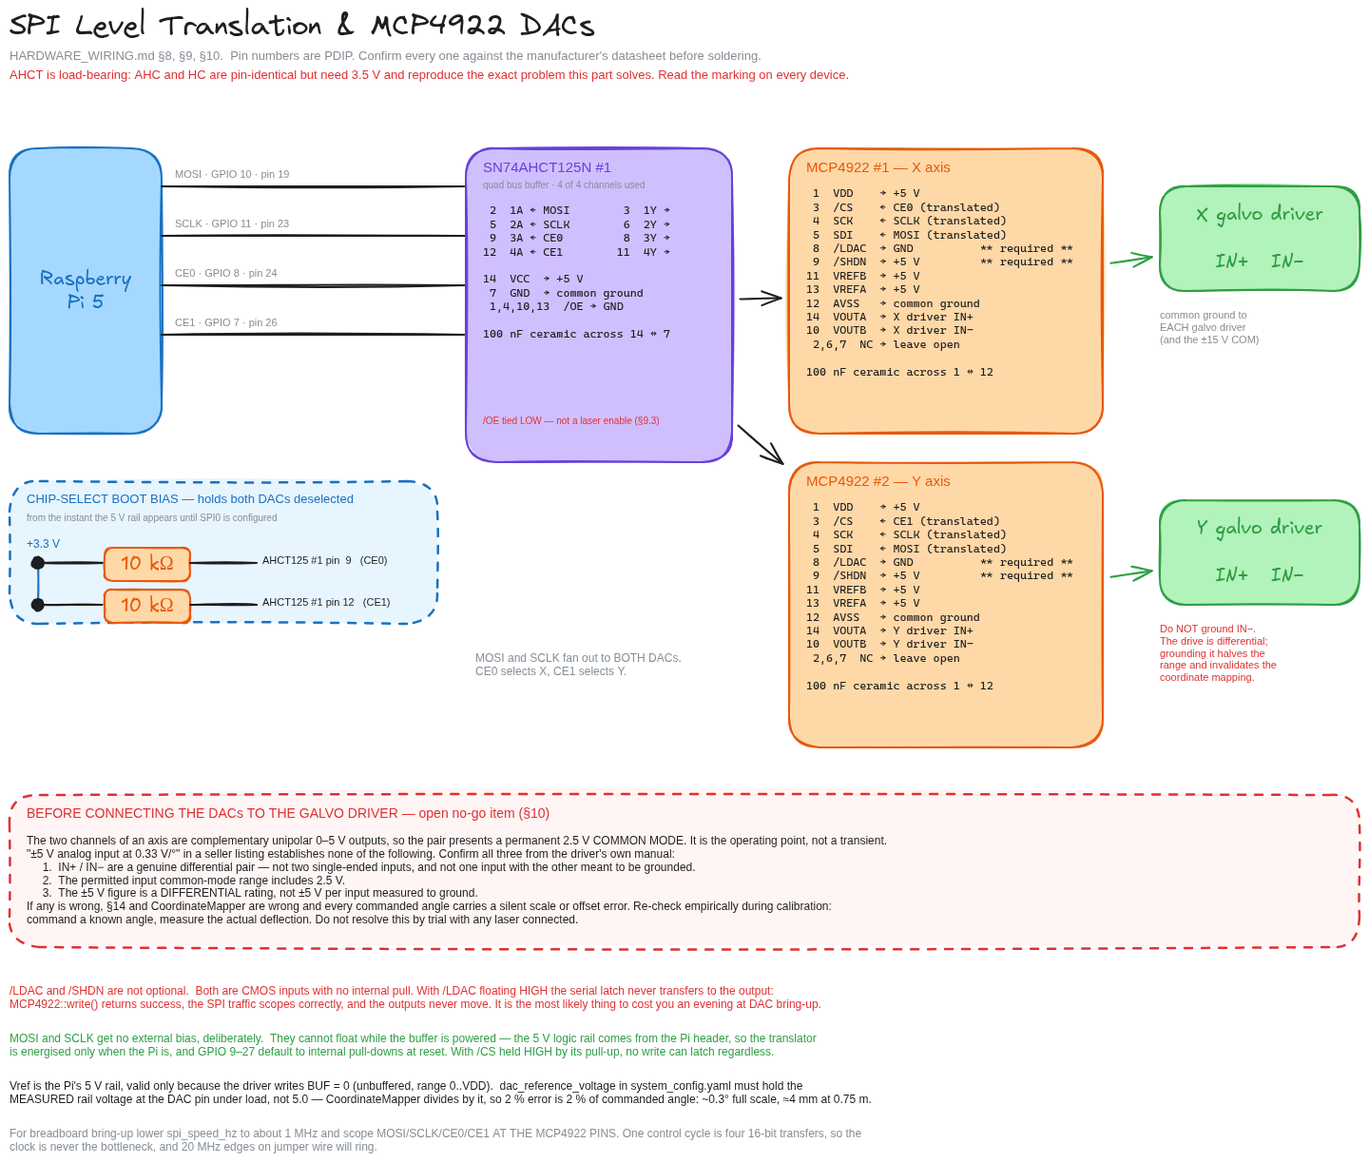
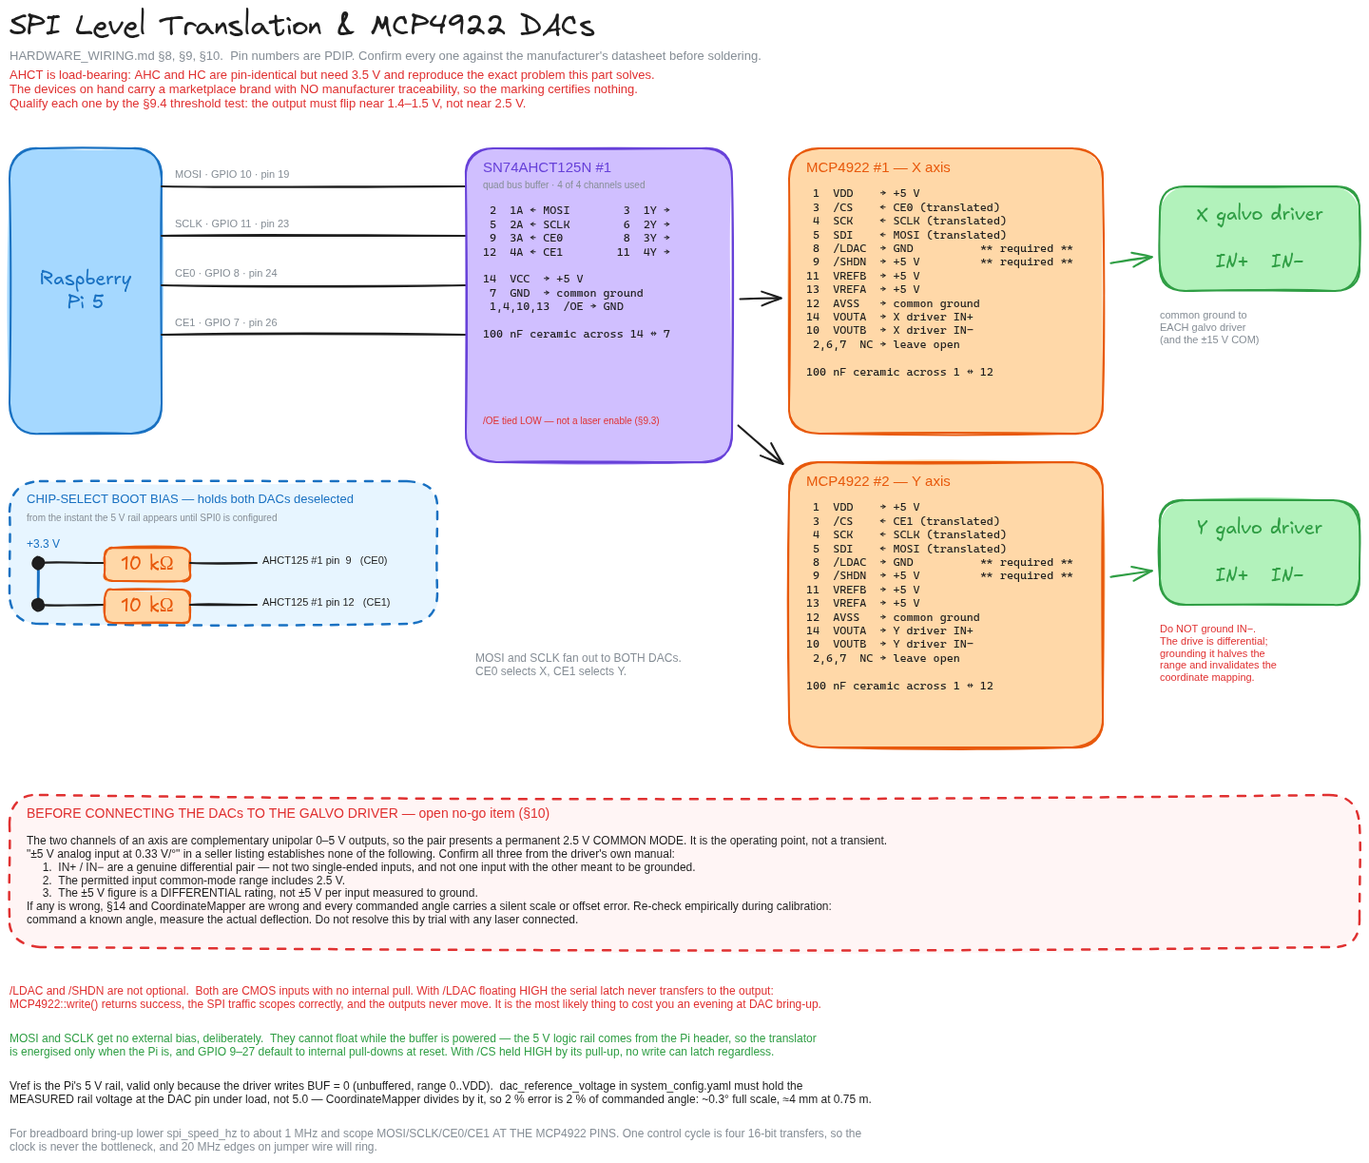
docs: AHCT125 marking is untraceable — add the input-threshold test
The two SN74AHCT125N packages were bought under the "Editbar" marketplace
brand from Zhengzhou Yuanzhang Trading Co., seller SKU ED1175. That is a
trading company, not a fab, the package logo is not TI's, and no die
manufacturer is identified anywhere.

Consequence: the check this project relied on no longer works. "Read the
marking on every fitted device" appears in AGENTS.md, README.md, the wiring
BOM, 9.1, 17 stage 0 and drawing 4 -- but SN...N is a TI nomenclature and TI
did not put those letters on these packages, so the marking is a claim by a
party that did not make the die. An AHC/HC die in an AHCT-marked package is
the cheap substitution, it is pin-identical, and marking inspection passes it
by definition.

Added: input-threshold test (9.4)
  The decisive measurement, and the one the marking cannot substitute for.
  V_CC = 5 V, /OE LOW, drive an input from a 10 kOhm pot across the rail and
  raise it while watching that channel's output:

    flips at ~1.4-1.5 V  -> TTL thresholds, a genuine AHCT
    flips at ~2.5 V      -> CMOS thresholds, an AHC/HC die. NO-GO

  Both packages, since they need not be from one lot. Explicitly recorded
  that "it switched when I applied 3.3 V" is NOT a pass: an HC part typically
  switches near 2.5 V and would sail through that test while failing its own
  guaranteed 3.5 V V_IH. That is the exact failure the test exists to catch.

Added: why a bench test is not the whole answer (9.1)
[…]

diff --git a/docs/HARDWARE_INVENTORY.md b/docs/HARDWARE_INVENTORY.md
@@ -36,7 +36,7 @@ the reported **2.5 W** module only.
 | Item on hand | Qty | Reported specification |
 |--------------|-----|------------------------|
 | DAC | 2 | MCP4922, DIP-14, dual-channel 12-bit DAC |
-| Level translation | 2 | SN74AHCT125N, PDIP-14 quad bus buffer with 3-state outputs — package #1 for the four SPI signals, package #2 for GPIO 18 alone. **Marking not yet checked on either device** |
+| Level translation | 2 | Marked `SN74AHCT125N`, PDIP-14 quad bus buffer with 3-state outputs — package #1 for the four SPI signals, package #2 for GPIO 18 alone. Sold under the **Editbar** marketplace brand (Zhengzhou Yuanzhang Trading Co., seller SKU **ED1175**); the package logo is not TI's and **no die manufacturer is identified**. `SN…N` is a TI nomenclature, so the marking is a claim by a party that did not make the part |
 | Monostable | 1 | **Hitachi HD74HC123P**, DIP-16, date code 9K06 — identified from the package marking 2026-08-03. Marked without the `A` of the `HD74HC123A` datasheet revision obtained |
 | AND gate | 1 | SN74HC08N, DIP-14, quad 2-input AND gate |
 | Resistors | count not recorded | Carbon film, 1/2 W: 220 kΩ, 10 kΩ, 3.3 kΩ and 1 kΩ values |
@@ -56,7 +56,15 @@ V_CC = 5 V, `AHCT` has TTL input thresholds (V_IH = 2.0 V) and accepts a 3.3 V
 Raspberry Pi output with margin; `AHC` and `HC` require 0.7 × V_CC = 3.5 V and
 reproduce the exact problem the part exists to solve. All three families share
 the same pinout, so a wrong-family substitution is invisible on the assembled
-board. Order spares and check the marking on every fitted device.
+board.
+
+**Marking inspection was the planned defence against that substitution, and for
+the devices on hand it no longer works.** They carry a marketplace brand and a
+trader's SKU, not a manufacturer's identity, so the `AHCT` letters certify
+nothing. The threshold test in `HARDWARE_WIRING.md` §9.4 replaces the marking
+check as the decisive one; §9.1 records why even a passing bench threshold does
+not fully substitute for a traceable datasheet, and recommends sourcing both
+packages from an authorised distributor.
 
 Wiring, pin assignment, the three mandatory laser-path pull-downs, and the
 verification steps are in `HARDWARE_WIRING.md` §9.
@@ -74,7 +82,7 @@ believe it is there and working.
 | Gap | Why it matters | Required resolution before powered assembly |
 |-----|----------------|---------------------------------------------|
 | **The design needs 6 × 10 kΩ, not 3** | One arm series resistor, **three** laser-path fail-LOW pull-downs — one per node: translator input, 74HC123/74HC08 inputs, and the laser-driver connector (`HARDWARE_WIRING.md` §9.3) — and two chip-select pull-ups (§8). The third pull-down is the only thing holding the driver's own TTL pin LOW when the 74HC08 is unpowered, removed, or its cable is broken; (a) and (b) are both on the translator side and do not reach past the AND gate. | Count and meter-check **6 × 10 kΩ, 1/2 W** out of the bin. Fit each one physically adjacent to the input it protects — a pull-down at the far end of a broken wire protects nothing. |
-| Level translation for the SPI and laser paths | Direct 3.3 V drive is not guaranteed into either a 5 V MCP4922 (V_IH = 3.5 V) or the 5 V 74HC123/74HC08 backstop (V_IH = 3.5 V). The translator must be **push-pull** with TTL input thresholds, fast enough for a 50 ns bit period at 20 MHz, and must cover **five** signals — four SPI plus GPIO 18. | **2 × SN74AHCT125N are on hand.** Open until both devices are marking-verified as `AHCT` — not `AHC`, not `HC`, which are pin-identical and would reproduce the exact fault the part exists to remove — fitted with **all three** fail-LOW pull-downs (`HARDWARE_WIRING.md` §9.3), scope-verified per §9.4 — the 20 MHz SPI edges genuinely need one — and bench-verified per §11a, where the ~100 ms one-shot does not. The pin-identical **SN74AHCT126N** with a self-gated active-HIGH `OE` was considered for the laser path and **rejected**: it adds no guarantee that pull-down (b) does not already provide, and it makes the *normal idle* laser TTL a resistive LOW instead of a driven one — reasoning recorded in §9.3. Fit only `AHCT125`. |
+| Level translation for the SPI and laser paths | Direct 3.3 V drive is not guaranteed into either a 5 V MCP4922 (V_IH = 3.5 V) or the 5 V 74HC123/74HC08 backstop (V_IH = 3.5 V). The translator must be **push-pull** with TTL input thresholds, fast enough for a 50 ns bit period at 20 MHz, and must cover **five** signals — four SPI plus GPIO 18. | **2 × SN74AHCT125N are on hand, without manufacturer traceability** (Editbar / Zhengzhou trading company / SKU ED1175, non-TI logo), so the `AHCT` marking certifies nothing and the planned marking check does not close this row. Open until both devices **pass the input-threshold test of §9.4** — flipping near 1.4–1.5 V, not near 2.5 V, which is what a remarked `AHC`/`HC` die would do — and preferably until both are replaced with parts from an authorised distributor, for the reason in §9.1: this is the only component in the design whose value is a datasheet guarantee rather than a measurable behaviour. Also open until they are fitted with **all three** fail-LOW pull-downs (`HARDWARE_WIRING.md` §9.3), scope-verified per §9.4 — the 20 MHz SPI edges genuinely need one — and bench-verified per §11a, where the ~100 ms one-shot does not. The pin-identical **SN74AHCT126N** with a self-gated active-HIGH `OE` was considered for the laser path and **rejected**: it adds no guarantee that pull-down (b) does not already provide, and it makes the *normal idle* laser TTL a resistive LOW instead of a driven one — reasoning recorded in §9.3. Fit only `AHCT125`. |
 | **Mains switching architecture is not built** | `HARDWARE_WIRING.md` §3 no longer passes mains through the mushroom contact, for two independent reasons. **Inrush:** the LRS-50-12 alone specifies a 45 A cold-start at 230 VAC, and the ±15 V supply adds its own; a pilot-duty contact block subjected to that welds rather than fails open, leaving an E-stop that looks normal and disconnects nothing. **Automatic restart:** with mains through the NC contact, *releasing* the mushroom re-energises everything. Because `SAFE_HALT` is terminal, this project's own documented recovery is "restart the software" — done with the mushroom released and the arm switch still ON, that walks `INIT → ARMED → FIRING` with no deliberate start action. | K1, START, STOP, the isolator/OCP/RCD set and the DIN terminal blocks are on hand; **none of it is wired.** Have a qualified person build and inspect the assembly, and confirm against the parts actually purchased that K1's main poles are rated for the *combined* inrush, that its coil matches the control circuit, and that it carries ≥1 auxiliary NO for the seal-in path. Then decide the integrity level: latching contactor as the minimum, or a monitored safety relay with **mirror-contact** feedback (IEC 60947-4-1) that detects a welded main pole and refuses the reset. That choice is a functional-safety decision and is itself open. Commission by verifying that the E-stop drops K1, that **releasing it does nothing**, and that both DC rails measure 0 V while it is pressed. |
 | **Double-pole isolation is required, and the inlet polarity cannot be assumed** | An earlier revision instructed "wire only the Live wire through the E-Stop". On a reversible inlet — CEI 23-50 (Italian Type L), Schuko/CEE 7 — the conductor labelled "L" is Live only half the time it is plugged in, so single-pole switching can break Neutral and leave both supplies live-referenced behind an E-stop that reads as open. | K1 must break **both** live conductors. PE is never switched and never fused. Confirm the intended inlet/plug type and have the isolation design reviewed by the qualified person doing the mains work. |
 | **Enclosure door interlock is not installed or verified** | A Class 4 enclosure must terminate beam access when opened. The switch is on hand but nothing has confirmed it actually has **two independent NC contacts with positive/direct opening action** (IEC 60947-5-1 Annex K) and a tool-required actuator — a switch sold as an interlock and a switch that meets Annex K are not the same claim, and the difference is invisible until it fails to open. | Confirm the contact arrangement and the positive-opening marking from the switch's own documentation, then wire per `HARDWARE_WIRING.md` §6a: contact 1 in the K1 coil circuit, contact 2 in series with the arm switch on the laser 12 V feed. Prove it by opening the door and watching the disarm. Hardware-only by design — no GPIO and no code change. |

diff --git a/docs/HARDWARE_WIRING.md b/docs/HARDWARE_WIRING.md
@@ -111,8 +111,8 @@ Separate USB-C 5 V ─► Raspberry Pi 5.  NOT on K1: the log, the GPIO 25 sense
 | Door interlock switch | 2 independent NC contacts with **positive/direct opening action** (IEC 60947-5-1 Annex K), tool-required actuator (§6a) | 1 | On hand; contact arrangement and positive-opening marking not yet confirmed |
 | X-axis DAC | MCP4922 DIP-14, 12-bit dual DAC | 1 | Reported on hand |
 | Y-axis DAC | MCP4922 DIP-14, 12-bit dual DAC | 1 | Reported on hand |
-| SPI translation | SN74AHCT125N, PDIP-14 quad bus buffer — push-pull, non-inverting, TTL input thresholds; carries MOSI, SCLK, CE0, CE1 | 1 package (4 of 4 ch) | On hand; **marking not yet read.** Must be marked `AHCT` — not `AHC`, not `HC` |
-| Laser translation | SN74AHCT125N, a **second physically separate** package, 1 channel used, with the two fail-LOW pull-downs of §9.3 | 1 package (1 of 4 ch) | On hand; **marking not yet read.** Package #1 is fully consumed by SPI, so this is a second device, not a spare channel |
+| SPI translation | SN74AHCT125N, PDIP-14 quad bus buffer — push-pull, non-inverting, TTL input thresholds; carries MOSI, SCLK, CE0, CE1 | 1 package (4 of 4 ch) | On hand, untraceable brand; **marking certifies nothing.** Qualify by the §9.4 threshold test |
+| Laser translation | SN74AHCT125N, a **second physically separate** package, 1 channel used, with the two fail-LOW pull-downs of §9.3 | 1 package (1 of 4 ch) | On hand, untraceable brand; **qualify by the §9.4 threshold test.** Package #1 is fully consumed by SPI, so this is a second device, not a spare channel |
 | Monostable | 74HC123, DIP-16 dual retriggerable one-shot | 1 | Reported on hand; manufacturer/order code unverified |
 | AND gate | SN74HC08N, DIP-14 quad 2-input AND | 1 | Reported on hand |
 | Timing resistor | 220 kΩ, 1/2 W | 1 | Reported on hand |
@@ -154,7 +154,7 @@ nothing about the assembled board makes that visible.
 
 The same hazard applies to the logic family: `AHCT`, `AHC`, and `HC` share the
 same pinout and differ by one letter in the marking, but only `AHCT` accepts a
-3.3 V input at a 5 V supply (§9.1). Read the marking on every fitted device.
+3.3 V input at a 5 V supply (§9.1). Read the marking on every fitted device — and, for the two `AHCT125`s, measure the input threshold too (§9.4): the devices on hand have no manufacturer traceability, so their marking is not evidence.
 
 **Sockets and permanence.** DIP sockets add nothing on a breadboard — the
 breadboard is the socket — but on the soldered build they let you swap the
@@ -648,7 +648,39 @@ far beyond the configured `spi_speed_hz`.
 > **`AHCT` is load-bearing.** `AHC` and `HC` share the identical pinout but use
 > CMOS thresholds (`0.7 × VCC` = 3.5 V) and reproduce the exact problem this part
 > exists to solve. A wrong-family substitution is invisible on the assembled
-> board. Read the marking on every fitted device.
+> board.
+>
+> **The marking is not sufficient evidence, and on the devices currently on hand
+> it is not evidence at all.** They were bought under a marketplace brand from a
+> trading company, with no manufacturer traceability (`HARDWARE_INVENTORY.md`),
+> so the letters `AHCT` on the package are a claim by someone who did not make
+> the die. An `AHC`/`HC` die in an `AHCT`-marked package is the cheap
+> substitution and the pinout hides it completely. Read the marking **and** run
+> the threshold test in §9.4.
+
+#### Why this part cannot be qualified on the bench alone
+
+This is the one device in the design whose value is a **datasheet guarantee**
+rather than an observable behaviour, and it is worth being explicit about the
+difference.
+
+The 74HC123's die is checked by measuring its period (§11a): a wrong part shows
+up in the number. The SN74HC08N is an AND gate whose function the §11a tests
+exercise directly. But nothing you can do on a bench establishes
+`V_IH = 2.0 V max at V_CC = 5 V across the full temperature range` — and that
+specification, not any single observation, is what makes it legitimate to drive
+this input from 3.3 V.
+
+A threshold measured on one unit at room temperature is exactly the class of
+evidence this section already rejects for direct wiring: *not valid merely
+because it may appear to work on one bench unit*. An untraceable `AHCT` that
+passes a bench threshold test sits in the same logical position as the direct
+connection it was bought to replace.
+
+**Obtain both packages from an authorised distributor** (Mouser, DigiKey, RS,
+Farnell). The part is well under €1; the laser firing path runs through it. Use
+the threshold test below on whatever is fitted, traceable or not — it still
+catches an outright `HC` die.
 
 Two **physically separate** packages are used:
 
@@ -740,7 +772,23 @@ by trust — which is what makes it safe to work on the wiring downstream.
 
 ### 9.4 Verification before either laser is connected
 
-- [ ] Every fitted device is marked `AHCT`, not `AHC` or `HC`.
+- [ ] Every fitted device is marked `AHCT`, not `AHC` or `HC`. **Necessary, not
+      sufficient** — see §9.1 on the traceability of the devices on hand.
+- [ ] **Input threshold measured on every fitted device.** This is the test the
+      marking cannot substitute for, and it is decisive against a remarked
+      `AHC`/`HC` die. With `V_CC` = 5 V and `/OE` LOW, drive one input from an
+      adjustable divider (a 10 kΩ potentiometer across the 5 V rail is enough)
+      and raise it slowly while watching that channel's output:
+
+      | Output flips at | Verdict |
+      |-----------------|---------|
+      | ~1.4–1.5 V | TTL thresholds — a genuine `AHCT` |
+      | ~2.5 V (half `V_CC`) | CMOS thresholds — an `AHC`/`HC` die. **No-go** |
+
+      Test both packages: they need not be from the same lot. Do **not** accept
+      "it switched when I applied 3.3 V" as a pass — an `HC` part typically
+      switches near 2.5 V and would pass that test while failing its own
+      guaranteed 3.5 V `V_IH`. That is the failure this test exists to catch.
 - [ ] Scope MOSI, SCLK, CE0, CE1 **at the MCP4922 pins** at the configured
       `spi_speed_hz`: valid HIGH/LOW levels, setup/hold met against the MCP4922
       timing spec. For breadboard bring-up, lower `spi_speed_hz` (e.g. 1 MHz) —
@@ -1283,7 +1331,7 @@ it is a separate work package for a qualified person — but it must not be
 
 | Stage | Work | Gate |
 |-------|------|------|
-| **0** | **Freeze and inspect.** Reconcile every drawing against this document. Meter every resistor against its documented value (§2). Read the marking on every IC (`AHCT`, not `AHC`/`HC`). Ring out the mushroom and lever-switch contacts. Obtain the galvo driver manual (§10). | Every part identified by measurement rather than by the bag it came in; §10's three questions answered from the manual |
+| **0** | **Freeze and inspect.** Reconcile every drawing against this document. Meter every resistor against its documented value (§2). Read the marking on every IC (`AHCT`, not `AHC`/`HC`) and threshold-test both `AHCT125`s per §9.4, since their marking is untraceable. Ring out the mushroom and lever-switch contacts. Obtain the galvo driver manual (§10). | Every part identified by measurement rather than by the bag it came in; §10's three questions answered from the manual |
 | **1** | **Enclosure mechanics.** Case, beam dump, door-interlock switch mounting, PE bonding plan. No electronics. | Door interlock actuates on door movement and cannot be defeated without a tool (§6a) |
 | **2** | **Pi alone.** USB-C only. Toggle GPIO 18/24/25, watch edges with `gpiomon`. No 5 V rail, nothing else connected. | Every pin behaves; `gpiomon` timestamps are sane |
 | **3** | **DAC island.** 5 V logic rail, AHCT125 #1, both MCP4922s **including `/LDAC` to GND and `/SHDN` to +5 V**, CE0/CE1 pull-ups. | All four DAC outputs ≈ 2.5 V; the 5 V rail measured at the DAC pin under load and written into `dac_reference_voltage` (§8) |

diff --git a/docs/PRE_FLIGHT_CHECKLIST.md b/docs/PRE_FLIGHT_CHECKLIST.md
@@ -101,6 +101,14 @@ verify the logic, backstop and sense circuits first; the mains package is stage 
   forward-clamps its node near 0.7 V.
 - [ ] The full 10 kΩ count is present: **6** — one arm series, three laser-path
   fail-LOW pull-downs, two chip-select pull-ups (`HARDWARE_WIRING.md` §2).
+- [ ] **Both `AHCT125` packages pass the input-threshold test** of
+  `HARDWARE_WIRING.md` §9.4: with `V_CC` = 5 V, the output flips at
+  **~1.4–1.5 V**, not at ~2.5 V. The devices on hand carry a marketplace brand
+  and no manufacturer traceability, so the `AHCT` marking certifies nothing and
+  this measurement is the only thing standing between the design and a
+  pin-identical `AHC`/`HC` die. "It switched at 3.3 V" is **not** a pass — an
+  `HC` part typically does too, while failing its own guaranteed 3.5 V `V_IH`.
+  Sourcing both packages from an authorised distributor is recommended (§9.1).
 - [ ] The four SPI outputs use a push-pull translator verified at
   `spi_speed_hz`; GPIO 18 uses a separate `AHCT125` package verified fail-LOW
   through power-up/down, open-wire, **and missing-IC** cases. No translator is
@@ -227,7 +235,7 @@ Do not connect the 2.5 W Class 4 laser until all of the following are true:
 | Enclosure + door interlock | Enclosure closed with beam dump; two positive-opening NC contacts fitted and both paths tested (§6a) |
 | E-Stop + arm switch | Physically installed and functionally tested; sense networks metered before connection |
 | Galvo driver input topology | Differential pair, 2.5 V common mode and differential ±5 V rating all confirmed from the driver's own manual (§10) |
-| Power and logic interfaces | Bipolar ±15 V galvo supply installed; SPI and laser level interfaces electrically and scope verified; all three §9.3 pull-downs individually proven |
+| Power and logic interfaces | Bipolar ±15 V galvo supply installed; both `AHCT125`s pass the §9.4 input-threshold test; SPI and laser level interfaces electrically and scope verified; all three §9.3 pull-downs individually proven |
 | MCP4922 control pins | `/LDAC` grounded, `/SHDN` at +5 V, `dac_reference_voltage` set from the measured rail |
 | 74HC123 pulse-duration backstop | Wired with AND gating, **220 kΩ on pin 15**, and bench-verified (short pulse passes, stuck-HIGH capped, period recorded) |
 | Laser driver TTL polarity | Confirmed **active HIGH** from the module's own documentation |

diff --git a/AGENTS.md b/AGENTS.md
@@ -21,7 +21,7 @@ This project implements a stereoscopic laser-targeting system for in-flight pest
 | Galvo power supply | Regulated bipolar ±15 VDC, sized for both axes | On hand; rails and current rating not yet measured. The 12 V laser PSU is not a substitute |
 | X-axis DAC | MCP4922 DIP-14 12-bit dual DAC | Differential X-axis galvo drive |
 | Y-axis DAC | MCP4922 DIP-14 12-bit dual DAC | Differential Y-axis galvo drive |
-| Level translation | 2 × **SN74AHCT125N**, PDIP-14 quad bus buffer — package #1 carries the four SPI signals, package #2 carries GPIO 18 alone | On hand; **marking not yet read.** `AHCT` is load-bearing: `AHC`/`HC` are pin-identical with 3.5 V thresholds. The pin-identical `AHCT126` self-gated variant was considered and rejected (`HARDWARE_WIRING.md` §9.3) |
+| Level translation | 2 × **SN74AHCT125N**, PDIP-14 quad bus buffer — package #1 carries the four SPI signals, package #2 carries GPIO 18 alone | On hand under a marketplace brand with **no manufacturer traceability** (Editbar / Zhengzhou trading co. / SKU ED1175, non-TI logo), so the marking certifies nothing and the §9.4 **threshold test** replaces the marking check; sourcing from an authorised distributor is recommended (`HARDWARE_WIRING.md` §9.1). `AHCT` is load-bearing: `AHC`/`HC` are pin-identical with 3.5 V thresholds. The pin-identical `AHCT126` self-gated variant was considered and rejected (`HARDWARE_WIRING.md` §9.3) |
 | Monostable | 74HC123 (DIP-16), manufacturer/order code unverified | Hardware pulse-duration backstop on laser TTL (§4.1) |
 | Monostable timing R | 1/2 W carbon-film 220 kΩ (1Rext/Cext, **pin 15** → +5 V) | On hand; sets one-shot period with C_ext |
 | Monostable timing C | 50 V monolithic-ceramic 1 µF (across 1Cext pin 14 ↔ 1Rext/Cext pin 15) | On hand; the Hitachi datasheet gives `t_W = R·C` with **no coefficient**, so the fitted parts compute to **≈220 ms**, not 99 ms; bench verification of the assembled period is mandatory |

diff --git a/README.md b/README.md
@@ -23,7 +23,7 @@ parts.
 | Test laser | 5 mW, 12 mm module | On hand; wavelength, supply, class label, pinout, and TTL compatibility must be recorded before use |
 | Laser power supply | Mean Well LRS-50-12, 12 VDC / 4.2 A / 50 W | On hand; working-laser driver power only |
 | DACs | 2× MCP4922 DIP-14, dual-channel 12-bit | On hand; one DAC per galvo axis |
-| Level translation | 2× **SN74AHCT125N** PDIP-14 quad bus buffer — one package for SPI, a second for GPIO 18 | On hand; **marking not yet read**. `AHCT` is load-bearing — `AHC`/`HC` are pin-identical with 3.5 V thresholds |
+| Level translation | 2× **SN74AHCT125N** PDIP-14 quad bus buffer — one package for SPI, a second for GPIO 18 | On hand, but under a marketplace brand with **no manufacturer traceability**, so the `AHCT` marking certifies nothing — qualify by the §9.4 threshold test, and prefer parts from an authorised distributor. `AHC`/`HC` are pin-identical with 3.5 V thresholds |
 | Pulse backstop logic | 74HC123 DIP-16 + SN74HC08N DIP-14; 220 kΩ 1/2 W + 1 µF 50 V monolithic ceramic timing parts | On hand. `74HC123` is a Hitachi HD74HC123P whose datasheet gives `t_W = R·C`, so the fitted parts are **≈220 ms**, not 99 ms. Actual period must still be measured. The 220 kΩ goes to **pin 15** |
 | Safety contactor + START | 2-pole contactor rated for the *combined* cold-start inrush, ≥1 auxiliary NO, plus a START button and mains isolator/OCP/RCD | On hand; **not wired.** The mushroom must not switch mains directly |
 | Door interlock | Switch with 2 independent NC contacts, positive/direct opening | On hand; contact arrangement unconfirmed |
